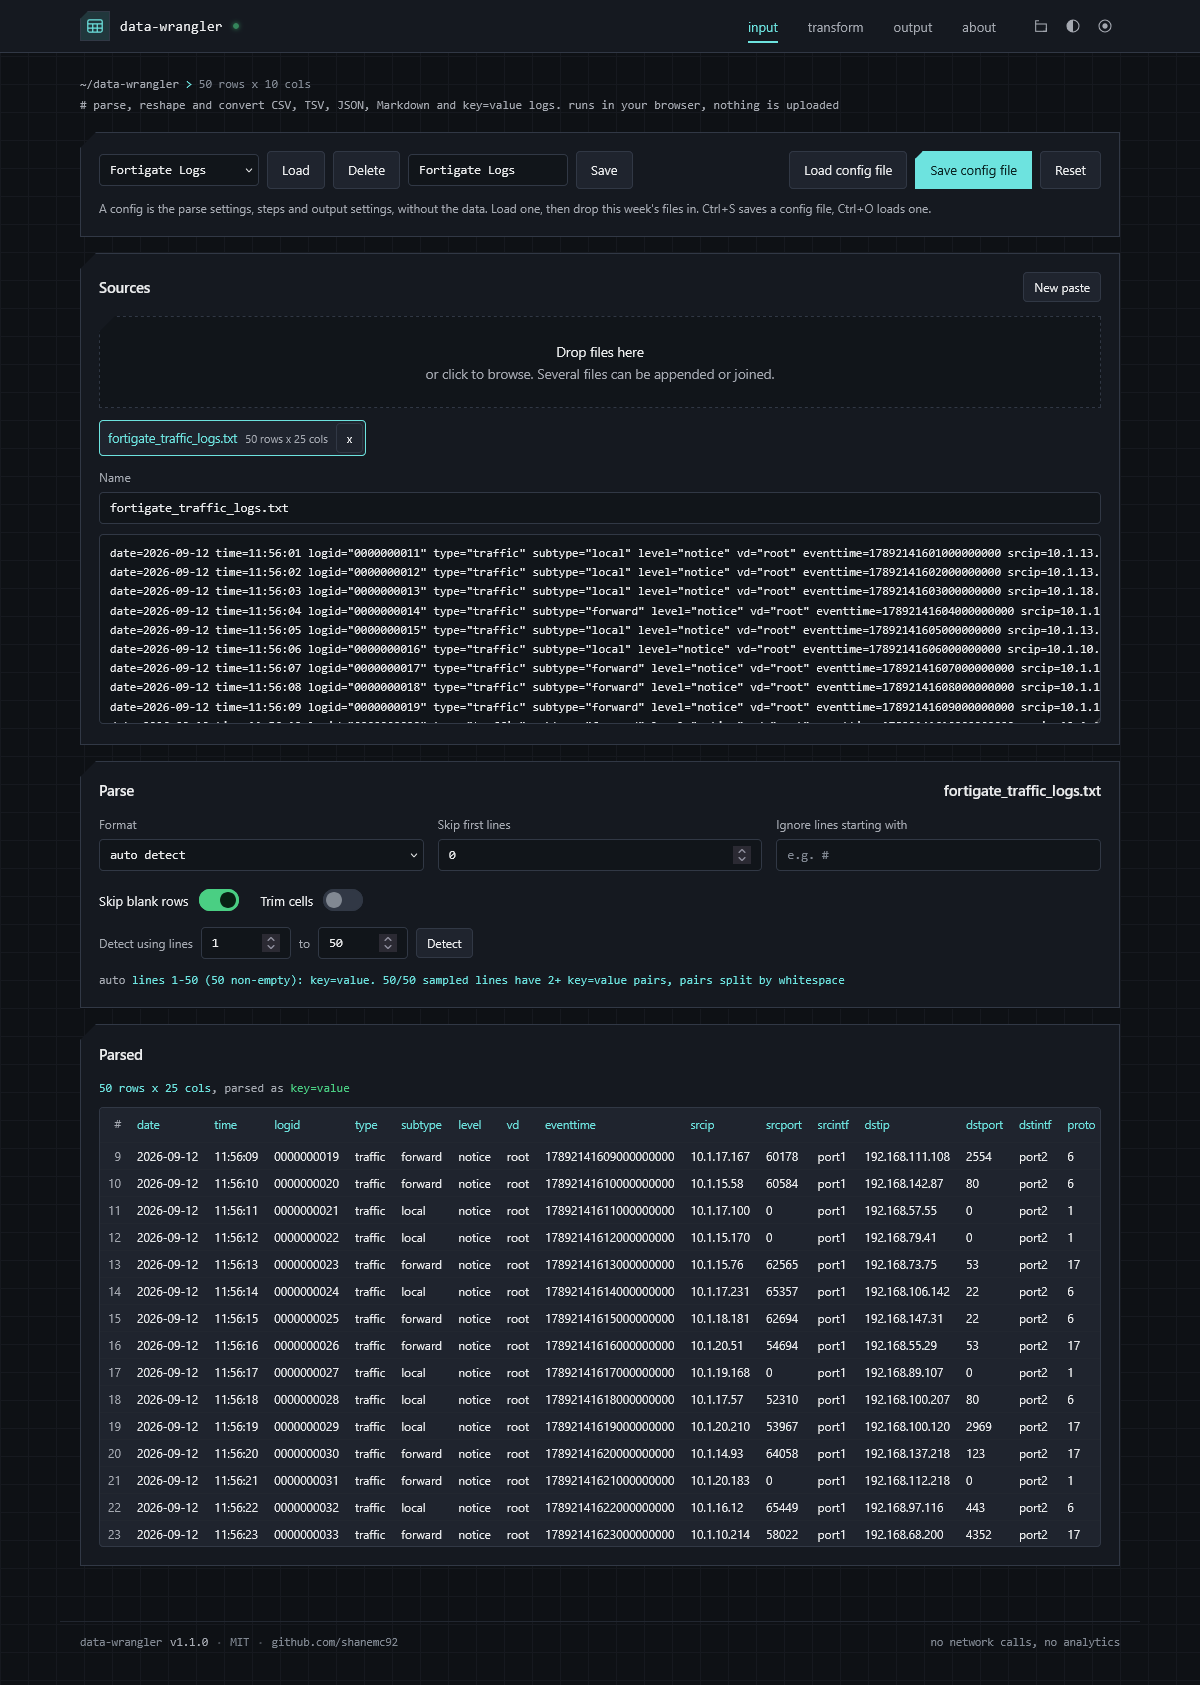
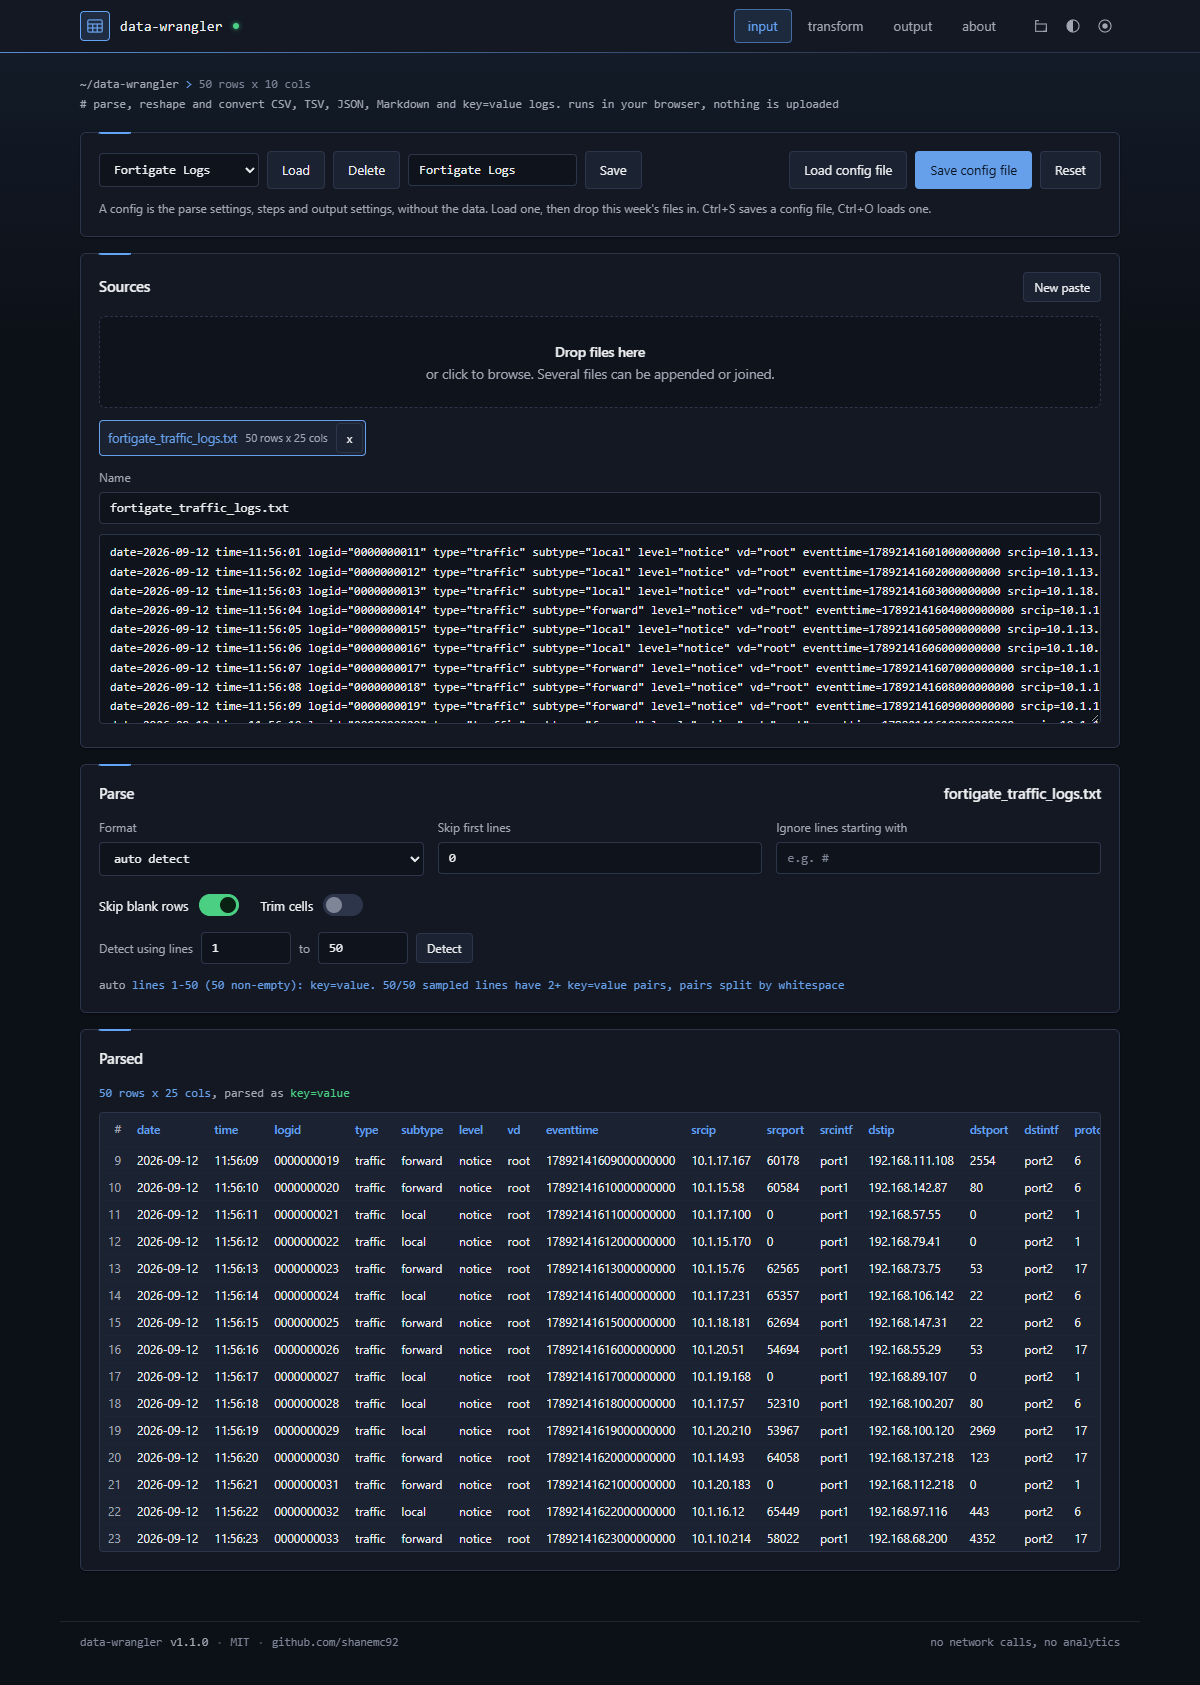
Replace the circuit design with cobalt and make it the default
Cobalt is a navy, blue-ruled design in place of the green circuit board
one. It is now the default and first in the design menu, with Azure as
the default accent. Screenshots retaken in the new default.

diff --git a/index.html b/index.html
@@ -1,5 +1,5 @@
 <!DOCTYPE html>
-<html lang="en" data-design="chamfer" data-mode="dark">
+<html lang="en" data-design="cobalt" data-mode="dark">
 <head>
 <meta charset="UTF-8">
 <meta name="viewport" content="width=device-width, initial-scale=1.0">
@@ -18,7 +18,7 @@
 
    One stylesheet, three independent axes:
 
-     data-design  chamfer | console | circuit | contour
+     data-design  cobalt | chamfer | console | contour
                   shape language, surface hue family, backdrop
                   texture, ornament. This is the "look".
 
@@ -58,15 +58,26 @@
     --ctl:      30px;   /* icon button / logo tile box */
 
     /* Accent defaults, overwritten inline by the picker. */
-    --ah: 178;
-    --ac: 68%;
+    --ah: 214;
+    --ac: 76%;
 }
 
 /* ============================================================
    Designs: hue family per mode group, shape, ornament switches
    ============================================================ */
 
-/* Cut corners, instrument grid. The house design. */
+/* Navy editor chrome, one constant blue rule. The house design. */
+html[data-design="cobalt"] {
+    --hd: 222; --sd: 30%;
+    --hw: 38;  --sw: 28%;
+    --hl: 216; --sl: 28%;
+    --radius: 6px;
+    --radius-sm: 4px;
+    --notch: 0px;
+    --notch-sm: 0px;
+}
+
+/* Cut corners, instrument grid. */
 html[data-design="chamfer"] {
     --hd: 218; --sd: 20%;    /* dark + dusk surfaces */
     --hw: 36;  --sw: 30%;    /* sepia surfaces */
@@ -84,17 +95,6 @@ html[data-design="console"] {
     --hl: 210; --sl: 7%;
     --radius: 0px;
     --radius-sm: 0px;
-    --notch: 0px;
-    --notch-sm: 0px;
-}
-
-/* Board colours, via grid, one constant plating. */
-html[data-design="circuit"] {
-    --hd: 152; --sd: 38%;
-    --hw: 40;  --sw: 34%;
-    --hl: 150; --sl: 8%;
-    --radius: 3px;
-    --radius-sm: 2px;
     --notch: 0px;
     --notch-sm: 0px;
 }
@@ -132,7 +132,7 @@ html[data-mode="dark"] {
     --warn: hsl(41 86% 60%);
     --bad:  hsl(5 85% 66%);
     --ok-ink: hsl(146 60% 8%);
-    --copper: #d3a24a;
+    --cobalt: hsl(214 90% 68%);
 }
 
 /* "Not as dark": same palette lifted off black, for rooms with
@@ -151,7 +151,7 @@ html[data-mode="dusk"] {
     --warn: hsl(41 82% 62%);
     --bad:  hsl(5 82% 68%);
     --ok-ink: hsl(146 60% 9%);
-    --copper: #dcae5c;
+    --cobalt: hsl(214 88% 74%);
 }
 
 /* Warm paper. Bright but low glare. */
@@ -169,7 +169,7 @@ html[data-mode="sepia"] {
     --warn: hsl(32 78% 34%);
     --bad:  hsl(2 68% 44%);
     --ok-ink: hsl(40 40% 97%);
-    --copper: #96681a;
+    --cobalt: hsl(216 62% 38%);
 }
 
 /* Cool white. The print-adjacent one. */
@@ -187,7 +187,7 @@ html[data-mode="light"] {
     --warn: hsl(32 80% 33%);
     --bad:  hsl(2 70% 45%);
     --ok-ink: hsl(150 30% 99%);
-    --copper: #8a6410;
+    --cobalt: hsl(216 72% 42%);
 }
 
 /* ============================================================
@@ -262,13 +262,11 @@ html[data-design="console"] body::before {
         var(--line-soft) 0 1px, transparent 1px 6px);
     opacity: 0.32;
 }
-/* Via holes: a plated ring around a hole the colour of the board. */
-html[data-design="circuit"] body::before {
-    background-image:
-        radial-gradient(circle, var(--line) 1.4px, transparent 1.6px),
-        radial-gradient(circle, var(--bg) 0.7px, transparent 0.9px);
-    background-size: 30px 30px, 30px 30px;
-    opacity: 0.55;
+/* A faint blue light falling from the top edge, like a lit screen. */
+html[data-design="cobalt"] body::before {
+    background-image: linear-gradient(180deg,
+        color-mix(in srgb, var(--cobalt) 9%, transparent), transparent 360px);
+    opacity: 1;
 }
 /* A single soft wash in the current accent, and nothing else. */
 html[data-design="contour"] body::before {
@@ -308,17 +306,15 @@ html[data-design="chamfer"] .chamfer-sm {
     background: var(--card);
     border-bottom: 1px solid var(--line);
 }
-/* Circuit only: the gold contact fingers of a card-edge connector,
-   kept to a hairline so it reads as an edge and not a stripe. */
-html[data-design="circuit"] .topbar::after {
+/* Cobalt only: a blue hairline under the bar that fades out to the
+   right, so it reads as an edge and not a stripe. */
+html[data-design="cobalt"] .topbar::after {
     content: "";
     position: absolute;
-    left: 0; right: 0; bottom: -2px;
-    height: 2px;
-    background: repeating-linear-gradient(90deg,
-        var(--copper) 0, var(--copper) 5px,
-        transparent 5px, transparent 8px);
-    opacity: 0.7;
+    left: 0; right: 0; bottom: -1px;
+    height: 1px;
+    background: linear-gradient(90deg, var(--cobalt), transparent 75%);
+    opacity: 0.8;
 }
 /* Console only: the bar sits on a second hairline, like a rule under
    a header in a terminal UI. Drawn as a shadow, so it takes no space. */
@@ -388,7 +384,7 @@ html[data-design="chamfer"] .logo {
     border-radius: 0;
     clip-path: polygon(8px 0, 100% 0, 100% 100%, 0 100%, 0 8px);
 }
-html[data-design="circuit"] .logo { border-color: var(--copper); }
+html[data-design="cobalt"] .logo { border-color: var(--cobalt); }
 html[data-design="contour"] .logo { border-radius: 50%; }
 @keyframes logo-in {
     from { opacity: 0; transform: scale(0.75); }
@@ -432,7 +428,14 @@ html[data-design="contour"] .tab[aria-selected="true"] { background: var(--accen
 html[data-design="console"] .tab::after,
 html[data-design="contour"] .tab::after { display: none; }
 html[data-design="contour"] .tab { border-radius: 999px; }
-html[data-design="circuit"] .tab[aria-selected="true"]::after { background: var(--copper); }
+/* Cobalt: the selected tab is a boxed chip, like a picker in a toolbar.
+   The border was already there, transparent, so nothing moves. */
+html[data-design="cobalt"] .tab[aria-selected="true"] {
+    color: var(--cobalt);
+    background: color-mix(in srgb, var(--cobalt) 12%, transparent);
+    border-color: color-mix(in srgb, var(--cobalt) 55%, transparent);
+}
+html[data-design="cobalt"] .tab::after { display: none; }
 
 /* ---------- Menus: design, mode, accent ---------- */
 .bar-tools { display: flex; align-items: center; gap: 2px; flex: 0 0 auto; }
@@ -510,11 +513,12 @@ html[data-design="circuit"] .tab[aria-selected="true"]::after { background: var(
 .opt[data-set="console"] .dsw {
     background-image: repeating-linear-gradient(180deg, var(--fg-faint) 0 1px, transparent 1px 4px);
 }
-.opt[data-set="circuit"] .dsw {
-    border-radius: 2px;
-    background-image: radial-gradient(circle, var(--fg-faint) 1.2px, transparent 1.4px);
-    background-size: 8px 8px;
-    background-position: 1px 1px;
+.opt[data-set="cobalt"] .dsw {
+    border-radius: 3px;
+    background-image: linear-gradient(90deg, var(--fg-faint) 0 60%, transparent 60%);
+    background-size: 100% 1px;
+    background-repeat: no-repeat;
+    background-position: 0 4px;
 }
 .opt[data-set="contour"] .dsw { border-radius: 50%; }
 
@@ -648,16 +652,15 @@ html[data-design="console"] .panel::before {
     background: var(--accent);
     opacity: 0.55;
 }
-/* Circuit: a fiducial in the corner, the way a board marks its own
-   orientation. Sits in the padding, never in the content. */
-html[data-design="circuit"] .panel::before {
+/* Cobalt: a short blue rule on the top edge, like the marker on an
+   active editor tab. Sits on the border, never in the content. */
+html[data-design="cobalt"] .panel::before {
     content: "";
     position: absolute;
-    top: 6px; right: 6px;
-    width: 7px; height: 7px;
-    border: 1.5px solid var(--copper);
-    border-radius: 50%;
-    opacity: 0.65;
+    top: -1px; left: var(--pad);
+    width: 32px; height: 2px;
+    background: var(--cobalt);
+    border-radius: 0 0 2px 2px;
 }
 @media print { .panel { clip-path: none !important; } .panel::before { display: none; } }
 
@@ -946,7 +949,7 @@ td .field { padding: 5px 8px; }
         --line: #999999; --line-soft: #cccccc;
         --fg: #111111; --fg-dim: #555555; --fg-faint: #777777;
         --accent: #333333; --accent-soft: transparent; --accent-ink: #ffffff;
-        --copper: #555555;
+        --cobalt: #555555;
         --shadow: none; --shadow-lift: none;
     }
     body::before { display: none !important; }
@@ -1134,6 +1137,11 @@ input[type="checkbox"] { accent-color: var(--accent); margin: 0; cursor: pointer
                 </button>
                 <div class="menu" id="designMenu" role="menu" hidden>
                     <div class="menu-title">Design</div>
+                    <button class="opt" role="menuitemradio" aria-checked="false" data-set="cobalt">
+                        <span class="dsw" aria-hidden="true"></span>
+                        <span class="lbl">Cobalt<small>navy chrome, blue rule, soft corners</small></span>
+                        <span class="tick" aria-hidden="true">&check;</span>
+                    </button>
                     <button class="opt" role="menuitemradio" aria-checked="false" data-set="chamfer">
                         <span class="dsw" aria-hidden="true"></span>
                         <span class="lbl">Chamfer<small>cut corners, instrument grid</small></span>
@@ -1142,11 +1150,6 @@ input[type="checkbox"] { accent-color: var(--accent); margin: 0; cursor: pointer
                     <button class="opt" role="menuitemradio" aria-checked="false" data-set="console">
                         <span class="dsw" aria-hidden="true"></span>
                         <span class="lbl">Console<small>square, graphite, scan rules</small></span>
-                        <span class="tick" aria-hidden="true">&check;</span>
-                    </button>
-                    <button class="opt" role="menuitemradio" aria-checked="false" data-set="circuit">
-                        <span class="dsw" aria-hidden="true"></span>
-                        <span class="lbl">Circuit<small>board colours, via grid, copper</small></span>
                         <span class="tick" aria-hidden="true">&check;</span>
                     </button>
                     <button class="opt" role="menuitemradio" aria-checked="false" data-set="contour">
@@ -1206,11 +1209,11 @@ input[type="checkbox"] { accent-color: var(--accent); margin: 0; cursor: pointer
                     <div class="wheel-wrap">
                         <div class="wheel" id="wheel" tabindex="0" role="slider"
                              aria-label="Accent colour wheel. Left and right change hue, up and down change intensity."
-                             aria-valuemin="0" aria-valuemax="359" aria-valuenow="178" aria-valuetext="Teal">
+                             aria-valuemin="0" aria-valuemax="359" aria-valuenow="214" aria-valuetext="Azure">
                             <span class="wheel-dot" id="wheelDot" aria-hidden="true"></span>
                         </div>
                         <div class="accent-foot">
-                            <span>Accent: <span class="now" id="accentNow">Teal</span></span>
+                            <span>Accent: <span class="now" id="accentNow">Azure</span></span>
                             <label class="hexin" title="Match a brand colour exactly. The lightness is still set per mode.">#<input
                                 type="text" class="field" id="accentHex" maxlength="7" placeholder="2ec4b6"
                                 spellcheck="false" autocomplete="off" aria-label="Accent colour as hex"></label>
@@ -1488,7 +1491,7 @@ function SAY(m) {
        ============================================================ */
     const root = document.documentElement;
 
-    const DESIGNS = ["chamfer", "console", "circuit", "contour"];
+    const DESIGNS = ["cobalt", "chamfer", "console", "contour"];
     const MODES   = ["dark", "dusk", "sepia", "light"];
 
     /* Hue plus chroma. Kept clear of the green, amber and red that --ok,
@@ -1504,7 +1507,10 @@ function SAY(m) {
         { id: "slate",  name: "Slate",  h: 210, c: 18 }
     ];
 
-    let accent = { h: 178, c: 68, name: "Teal" };
+    /* Azure suits the default cobalt design. */
+const DEFAULT_ACCENT = ACCENTS.find(a => a.id === "azure");
+
+let accent = { h: DEFAULT_ACCENT.h, c: DEFAULT_ACCENT.c, name: DEFAULT_ACCENT.name };
 
     /* ---------- keeping an arbitrary hue readable ----------
        HSL lightness is not perceptual: hsl(178 68% 40%) and
@@ -1776,7 +1782,7 @@ function SAY(m) {
     (() => {
         let a = null;
         try { a = JSON.parse(ST.get("accent")); } catch (e) {}
-        applyAccent(a && isFinite(a.h) ? a : ACCENTS[0], false);
+        applyAccent(a && isFinite(a.h) ? a : DEFAULT_ACCENT, false);
     })();
 })();
 /* ---------- tabs ---------- */

diff --git a/README.md b/README.md
@@ -51,9 +51,9 @@ one never resets the others.
 
 | Design | Shape | Backdrop |
 |---|---|---|
-| `chamfer` | Cut corners | Instrument grid. The default |
+| `cobalt` | Slight radius, navy | Blue glow from the top, blue edge rules. The default |
+| `chamfer` | Cut corners | Instrument grid |
 | `console` | Square, graphite | Horizontal scan rules |
-| `circuit` | Slight radius, board green | Via holes, copper edge |
 | `contour` | Soft radii, violet | A single accent wash |
 
 **Mode** sets the lightness ramp only, and every design supports every mode:
